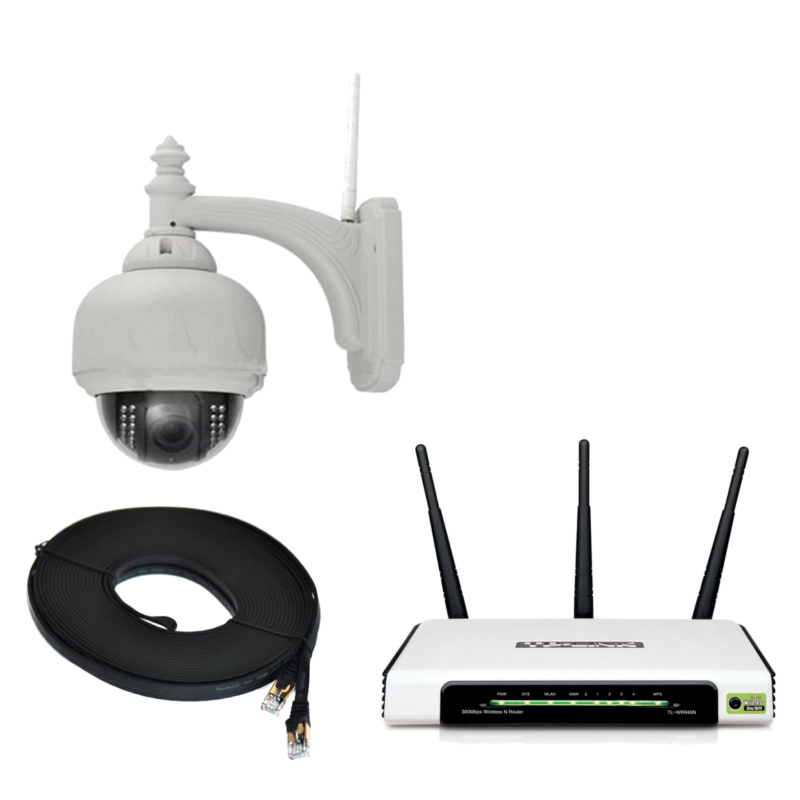
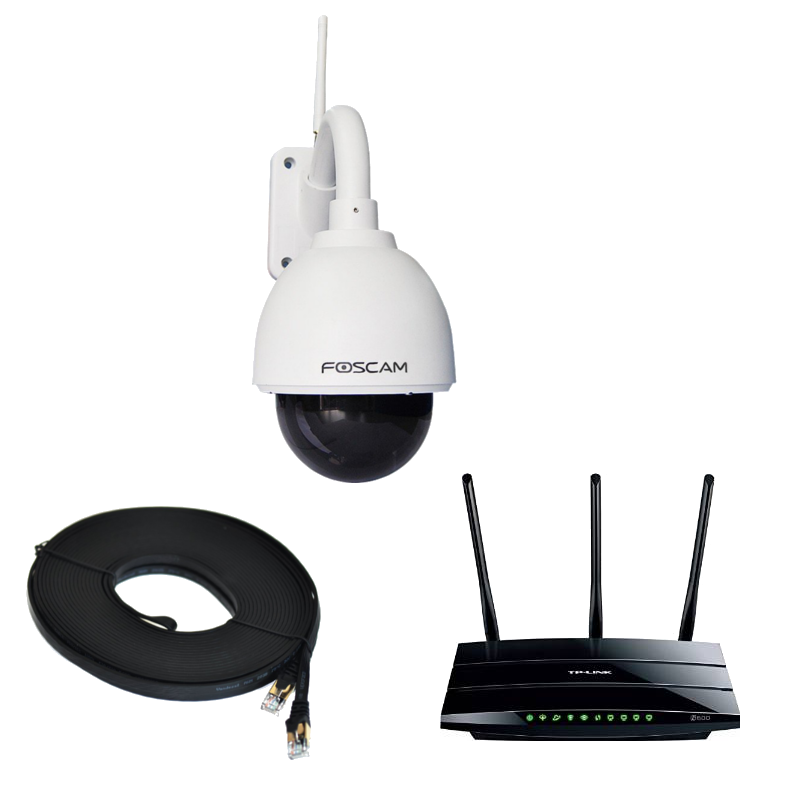
added affiliate links for all products

Changed region(s): [[0.0625, 0.0312, 0.9688, 0.9375]]

diff --git a/products/ip-bullet-calving-camera-system.md b/products/ip-bullet-calving-camera-system.md
@@ -22,13 +22,14 @@ images:
      name: 8-port-poe-switch.png
    - title: POE Injector for powering the antenna (house side)
      name: poe-injector.png
-   - title: Router to connect the system to PC or Laptop
-     name: router.jpg
+   - title: Router to connect system to PC or Laptop.
+     name: tp-link-router.jpg
 ---
 
-This Calving Camera System comprises of IP bullet cameras, for high resolution, crisp and clear video, and directional antennas for long range Wi-Fi connectivity. This system is ideal when there is a long distance between the shed and the house.
+<span property="description">This Calving Camera System comprises of an IP bullet camera, for high resolution, crisp and clear video, and directional antennas for long range Wi-Fi connectivity. This system is ideal when there is a long distance between the shed and the house.
 
-Installing this system is a simple DIY job and should take no more than a couple of hours. All the devices connect together with ethernet cables and need very little configuration to get started.
+Installing this system is a simple DIY job and should take no more than a couple of hours to set up. All the devices connect together with ethernet cables and need very little configuration to get started.
+</span>
 
 If you want to get more information about how to set this type of system see the following articles: 
 
@@ -48,7 +49,7 @@ Bellow is a connection diagram how the system is setup and connected together.
 
 Here we have two IP bullet cameras connected to, and powered by, a POE network switch using ethernet cables. The POE network switch also connects, and powers, a directional antenna. 
 
-The POE network switch simpifies the system by powering the cameras and the antenna through the ethernet cables. Without it, the other devices will need a separate power sources. If the system, you intend to build, will only ever have one camera then there is no need for the POE network switch, the camera can be connected directly to the antenna with an ethernet cable.
+The POE network switch simpifies the system by powering the cameras and the antenna through the ethernet cables. Without it, the other devices will need a separate power sources. If the system, you intend to build, will only ever have one camera then there is no need for the POE network switch. A single port POE Injector will be sufficent to power the camera.
 
 The directional antenna will make a Wi-Fi connection to the other directional antenna. These antennas will need a clear line of sight to maximise there range and connection quality. The maximum range of this is system 5km.
 
@@ -58,19 +59,46 @@ If the distance between the house and the shed is not that long, for example les
 
 This system can be easily expanded. To add more cameras just plug them into the POE network switch. As long as there are spare ports on the POE network switch then more cameras can be added. So, if you might need more cameras in the future its a good idea to have plenty of spare POE ports on the network switch.
 
-###Equipment
+###Kit Includes
 
 - 2 IP Bullet Camera(s)
 - 2 Wireless Directional Antennas
-- 1 Four port POE Network Switch
+- 1 Eight port POE Network Switch
 - 1 POE Injector
 - 3 20 meter Ethernet Cables
-- 1 Router
+- 1 10 meter Ethernet Cable
+- 1 Router/Modem
+- AC power supplies
+- User manuals
 
-
-
+<!--
 <div class="pull-right">
   <b>Buy Now:</b>
   <button id="buy-{{ page.slug }}-2" data-product-title="{{ page.title }}" role="button" data-toggle="modal" class="btn btn-primary btn-large buy" onClick="_gaq.push(['_trackEvent', 'buy', 'button', 'Tried to buy {{ page.title }}.']);"><i class="fa fa-shopping-cart fa-lg"></i> {{ page.price }}</button>
 </div>
 <br/>
+-->
+
+If you have any questions about this systems, or would like a quotation, please feel free to <b><a href="/contact">contact us</a></b>.
+
+##Buying this system through Amazon
+
+Here are links to products on Amazon if you would like to build this system yourself:
+
+<iframe style="width:120px;height:240px;" marginwidth="0" marginheight="0" scrolling="no" frameborder="0" src="//ws-eu.amazon-adsystem.com/widgets/q?ServiceVersion=20070822&OneJS=1&Operation=GetAdHtml&MarketPlace=GB&source=ac&ref=qf_sp_asin_til&ad_type=product_link&tracking_id=calvingcamera-21&marketplace=amazon&region=GB&placement=B00G7GMEOG&asins=B00G7GMEOG&linkId=&show_border=true&link_opens_in_new_window=true">
+</iframe>
+
+<iframe style="width:120px;height:240px;" marginwidth="0" marginheight="0" scrolling="no" frameborder="0" src="//ws-eu.amazon-adsystem.com/widgets/q?ServiceVersion=20070822&OneJS=1&Operation=GetAdHtml&MarketPlace=GB&source=ss&ref=ss_til&ad_type=product_link&tracking_id=calvingcamera-21&marketplace=amazon&region=GB&placement=B004ZCKNYW&asins=B004ZCKNYW&linkId=&show_border=true&link_opens_in_new_window=true">
+</iframe>
+
+<iframe style="width:120px;height:240px;" marginwidth="0" marginheight="0" scrolling="no" frameborder="0" src="//ws-eu.amazon-adsystem.com/widgets/q?ServiceVersion=20070822&OneJS=1&Operation=GetAdHtml&MarketPlace=GB&source=ss&ref=ss_til&ad_type=product_link&tracking_id=calvingcamera-21&marketplace=amazon&region=GB&placement=B001PS4NRM&asins=B001PS4NRM&linkId=&show_border=true&link_opens_in_new_window=true">
+</iframe>
+
+<iframe style="width:120px;height:240px;" marginwidth="0" marginheight="0" scrolling="no" frameborder="0" src="//ws-eu.amazon-adsystem.com/widgets/q?ServiceVersion=20070822&OneJS=1&Operation=GetAdHtml&MarketPlace=GB&source=ss&ref=ss_til&ad_type=product_link&tracking_id=calvingcamera-21&marketplace=amazon&region=GB&placement=B00A4I71BO&asins=B00A4I71BO&linkId=&show_border=true&link_opens_in_new_window=true">
+</iframe>
+
+<iframe style="width:120px;height:240px;" marginwidth="0" marginheight="0" scrolling="no" frameborder="0" src="//ws-eu.amazon-adsystem.com/widgets/q?ServiceVersion=20070822&OneJS=1&Operation=GetAdHtml&MarketPlace=GB&source=ss&ref=ss_til&ad_type=product_link&tracking_id=calvingcamera-21&marketplace=amazon&region=GB&placement=B00A51Q1O8&asins=B00A51Q1O8&linkId=&show_border=true&link_opens_in_new_window=true">
+</iframe>
+
+<iframe style="width:120px;height:240px;" marginwidth="0" marginheight="0" scrolling="no" frameborder="0" src="//ws-eu.amazon-adsystem.com/widgets/q?ServiceVersion=20070822&OneJS=1&Operation=GetAdHtml&MarketPlace=GB&source=ss&ref=ss_til&ad_type=product_link&tracking_id=calvingcamera-21&marketplace=amazon&region=GB&placement=B00NEQZ12Y&asins=B00NEQZ12Y&linkId=&show_border=true&link_opens_in_new_window=true">
+</iframe>

diff --git a/products/short-range-ip-calving-camera-system.md b/products/short-range-ip-calving-camera-system.md
@@ -13,14 +13,14 @@ description: IP Done Calving Camera System with Pan/Tilt & Zoom functionality. V
 
 images:
    - title: IP Camera with Pan\Tilt & Zoom functionality.
-     name: ip-camera.jpg
+     name: foscam-ptz-ip-camera.jpg
    - title: Connect equipement with ethernet cables.
      name: 20-ethernet-cable.jpg
    - title: Router to connect system to PC or Laptop.
-     name: router.jpg
+     name: tp-link-router.jpg
 ---
 
-IP Calving Camera System with Pan/Tilt & Zoom functionality. View large areas of your cattle shed with the single camera. Ideal when there is not a large distance from house to the shed. The maximum range of this system is 100 meters. If you need a longer distance <a href="{{site.baseurl}}/products/long-range-ip-calving-camera-system.html">Directional Antennas</a> can be integrated into this system.
+IP Calving Camera System with Pan/Tilt & Zoom functionality. View large areas of your cattle shed with the single camera. Ideal when there is not a large distance from house to the shed. The maximum range of this system is 80 meters. If you need a longer distance <a href="{{site.baseurl}}/products/long-range-ip-calving-camera-system.html">Directional Antennas</a> can be integrated into this system.
 
 If you want to get more information about how to set this type of system see this link: <a href="{{site.baseurl}}/ip/2015/04/24/ip-calving-camera-system.html">IP Calving Camera System</a>
 
@@ -35,15 +35,33 @@ The IP Camera has <a href="{{site.baseurl}}/ptz/2015/04/26/ptz-calving-camera.ht
 </figure>
 <br>
 
-###Equipment
+###Kit Includes
 
-- 1 IP PTZ Camera
-- 1 100 meter Ethernet Cable
-- 1 Router
+- 1 IP PTZ Outdoor Camera
+- 1 80 meter Ethernet Cable
+- 1 Router/Modem
+- AC power supplies
+- User manuals
 
-
+<!--
 <div class="pull-right">
   <b>Buy Now:</b>
   <button id="buy-{{ page.slug }}-2" data-product-title="{{ page.title }}" role="button" data-toggle="modal" class="btn btn-primary btn-large buy" onClick="_gaq.push(['_trackEvent', 'buy', 'button', 'Tried to buy {{ page.title }}.']);"><i class="fa fa-shopping-cart fa-lg"></i> {{ page.price }}</button>
 </div>
 <br/>
+-->
+
+If you have any questions about this systems, or would like a quotation, please feel free to <b><a href="/contact">contact us</a></b>.
+
+##Buying this system through Amazon
+
+Here are links to products on Amazon if you would like to build this system yourself:
+
+<iframe style="width:120px;height:240px;" marginwidth="0" marginheight="0" scrolling="no" frameborder="0" src="//ws-eu.amazon-adsystem.com/widgets/q?ServiceVersion=20070822&OneJS=1&Operation=GetAdHtml&MarketPlace=GB&source=ss&ref=ss_til&ad_type=product_link&tracking_id=calvingcamera-21&marketplace=amazon&region=GB&placement=B00IV4QE2A&asins=B00IV4QE2A&linkId=&show_border=true&link_opens_in_new_window=true">
+</iframe>
+
+<iframe style="width:120px;height:240px;" marginwidth="0" marginheight="0" scrolling="no" frameborder="0" src="//ws-eu.amazon-adsystem.com/widgets/q?ServiceVersion=20070822&OneJS=1&Operation=GetAdHtml&MarketPlace=GB&source=ss&ref=ss_til&ad_type=product_link&tracking_id=calvingcamera-21&marketplace=amazon&region=GB&placement=B00A5TE6DI&asins=B00A5TE6DI&linkId=&show_border=true&link_opens_in_new_window=true">
+</iframe>
+
+<iframe style="width:120px;height:240px;" marginwidth="0" marginheight="0" scrolling="no" frameborder="0" src="//ws-eu.amazon-adsystem.com/widgets/q?ServiceVersion=20070822&OneJS=1&Operation=GetAdHtml&MarketPlace=GB&source=ss&ref=ss_til&ad_type=product_link&tracking_id=calvingcamera-21&marketplace=amazon&region=GB&placement=B00NEQZ12Y&asins=B00NEQZ12Y&linkId=&show_border=true&link_opens_in_new_window=true">
+</iframe>

diff --git a/products/long-range-ip-calving-camera-system.md b/products/long-range-ip-calving-camera-system.md
@@ -73,7 +73,7 @@ For more information about how to connect up this type of system see this link: 
 - 2 POE Injectors
 - 2 20 meter Ethernet Cables
 - 1 10 meter Ethernet Cable
-- 1 Router/Modem (optional)
+- 1 Router/Modem
 - AC power supplies
 - User manuals
 
@@ -85,7 +85,11 @@ For more information about how to connect up this type of system see this link: 
 <br/>
 -->
 
-##Buy On Amazon
+If you have any questions about this systems, or would like a quotation, please feel free to <b><a href="/contact">contact us</a></b>.
+
+##Buying this system through Amazon
+
+Here are links to products on Amazon if you would like to build this system yourself:
 
 <iframe style="width:120px;height:240px;" marginwidth="0" marginheight="0" scrolling="no" frameborder="0" src="//ws-eu.amazon-adsystem.com/widgets/q?ServiceVersion=20070822&OneJS=1&Operation=GetAdHtml&MarketPlace=GB&source=ss&ref=ss_til&ad_type=product_link&tracking_id=calvingcamera-21&marketplace=amazon&region=GB&placement=B00IV4QE2A&asins=B00IV4QE2A&linkId=&show_border=true&link_opens_in_new_window=true">
 </iframe>
